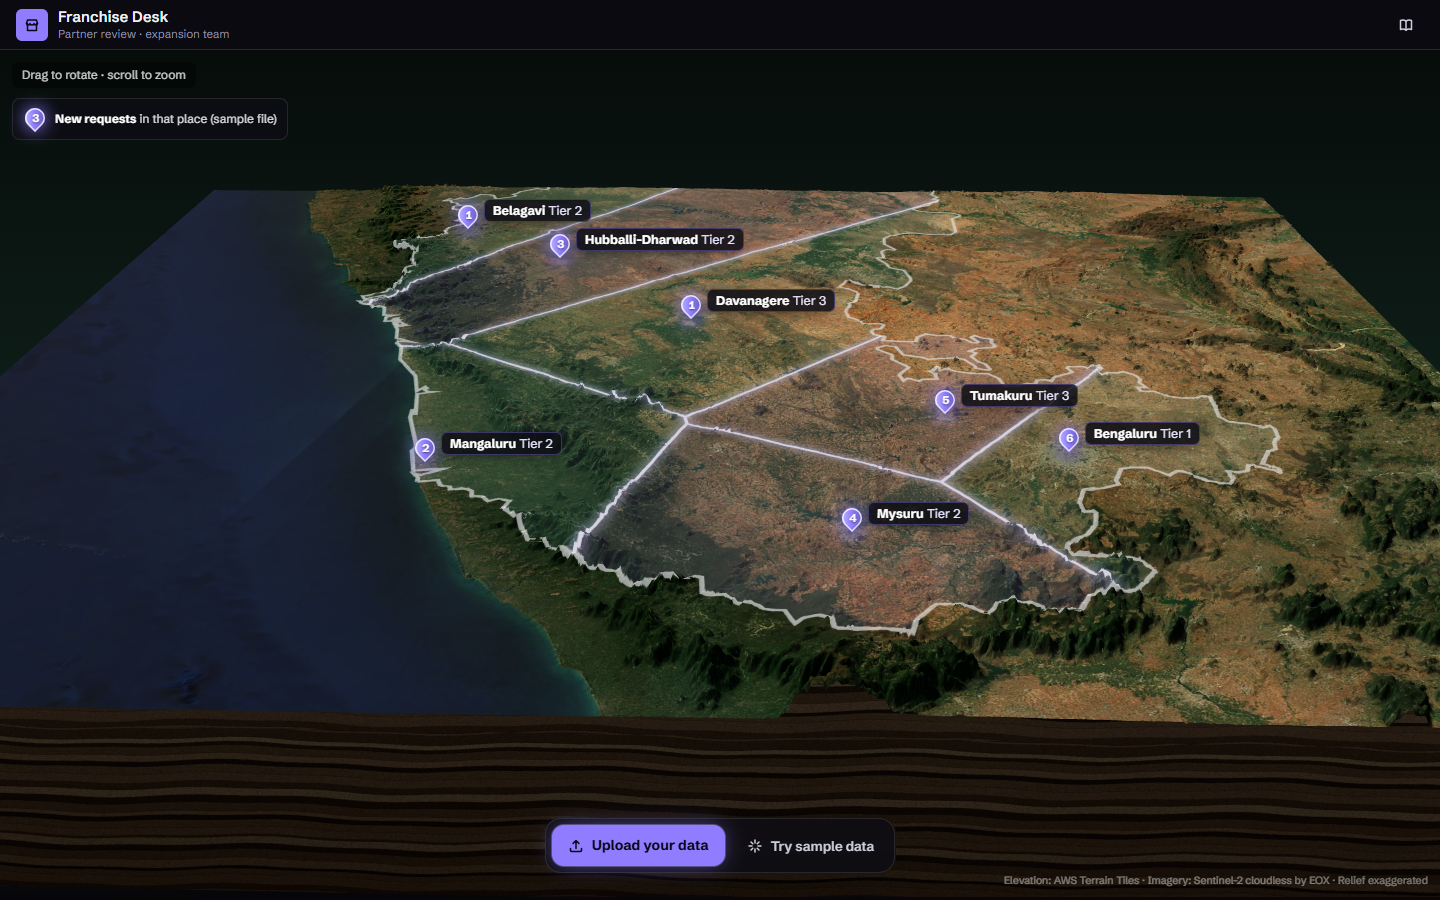
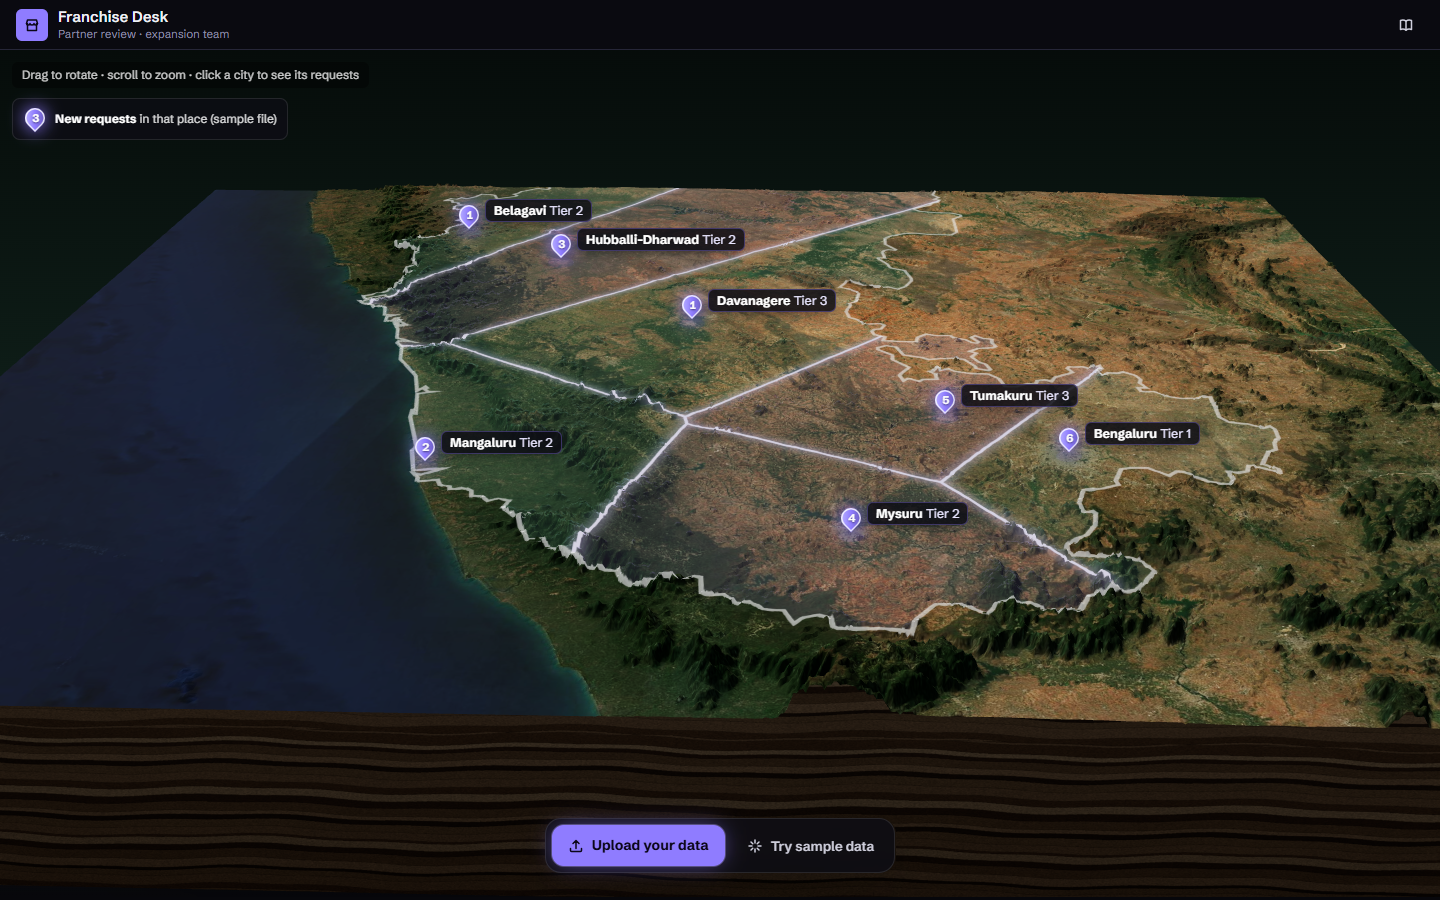
Clicking a city on the first page flies into its territory with the requests; map credits move to How it decides

diff --git a/components/EmptyState.tsx b/components/EmptyState.tsx
@@ -16,7 +16,7 @@ const Diorama = dynamic(() => import("./map/Diorama"), {
   loading: () => <div className="grid h-full place-items-center text-[13px] text-muted">Building the 3D view of India…</div>,
 });
 
-export function EmptyState({ onFile, onSample, error, loading }: { onFile: (f: File) => void; onSample: () => void; error: string | null; loading: boolean }) {
+export function EmptyState({ onFile, onSample, error, loading }: { onFile: (f: File) => void; onSample: (openCity?: string) => void; error: string | null; loading: boolean }) {
   const [over, setOver] = useState(false);
   // before any upload, the pins count the requests in the bundled sample file (invented applicants), marked as sample
   const [counts, setCounts] = useState<Record<string, number> | null>(null);
@@ -66,9 +66,9 @@ export function EmptyState({ onFile, onSample, error, loading }: { onFile: (f: F
         if (f) onFile(f);
       }}
     >
-      {map3d && <Diorama source={{ kind: "region" }} points={points} overlay={zones} activeKey={picked} onPick={(k) => setPicked((p) => (p === k ? null : k))} reducedMotion={reduced} onFail={() => setMap3d(false)} autoRotate hint="Drag to rotate · scroll to zoom" />}
+      {map3d && <Diorama source={{ kind: "region" }} points={points} overlay={zones} activeKey={picked} onPick={(k) => onSample(points.find((p) => p.key === k)?.title)} reducedMotion={reduced} onFail={() => setMap3d(false)} autoRotate hint="Drag to rotate · scroll to zoom · click a city to see its requests" />}
       <PinLegend points={points} sample />
-      {!map3d && <FlatIndia points={points} activeKey={picked} onPick={(k) => setPicked((p) => (p === k ? null : k))} />}
+      {!map3d && <FlatIndia points={points} activeKey={picked} onPick={(k) => onSample(points.find((p) => p.key === k)?.title)} />}
       {over && <div className="pointer-events-none absolute inset-3 z-[4] grid place-items-center rounded-2xl border-2 border-dashed border-[#b4a6ff] bg-[#8f7cff14] text-[16px] font-semibold text-white">Drop the Excel file to open it</div>}
       <div className="absolute inset-x-0 bottom-6 z-[5] flex flex-col items-center gap-2 px-4">
         {error && (
@@ -80,7 +80,7 @@ export function EmptyState({ onFile, onSample, error, loading }: { onFile: (f: F
           <label htmlFor="file" className="neon-btn inline-flex cursor-pointer items-center gap-2 rounded-xl px-4 py-2.5 text-[14px] font-bold">
             <Icon.Upload /> {loading ? "Reading the workbook…" : "Upload your data"}
           </label>
-          <button type="button" onClick={onSample} disabled={loading} className="inline-flex items-center gap-2 rounded-xl px-3.5 py-2.5 text-[13.5px] font-semibold text-ink-2 hover:bg-white/5 hover:text-ink disabled:opacity-60">
+          <button type="button" onClick={() => onSample()} disabled={loading} className="inline-flex items-center gap-2 rounded-xl px-3.5 py-2.5 text-[13.5px] font-semibold text-ink-2 hover:bg-white/5 hover:text-ink disabled:opacity-60">
             <Icon.Spark /> Try sample data
           </button>
           <input

diff --git a/components/Explore.tsx b/components/Explore.tsx
@@ -41,7 +41,7 @@ function territoryBbox(points: MapPoint[]): [number, number, number, number] {
   return [w, s, e, n];
 }
 
-export function Explore({ result, onFullDecision, onSummary }: { result: RunResult; onFullDecision: (key: string) => void; onSummary: () => void }) {
+export function Explore({ result, onFullDecision, onSummary, openCity, onOpened }: { result: RunResult; onFullDecision: (key: string) => void; onSummary: () => void; openCity?: string | null; onOpened?: () => void }) {
   const [territory, setTerritory] = useState<string | null>(null);
   const [request, setRequest] = useState<string | null>(null);
   const [reduced, setReduced] = useState(false);
@@ -63,6 +63,17 @@ export function Explore({ result, onFullDecision, onSummary }: { result: RunResu
   }, [request, territory]);
 
   const tPoints = useMemo(() => territoryPoints(result), [result]);
+  // a city clicked on the first page opens straight into its territory
+  useEffect(() => {
+    if (!openCity) return;
+    const p = tPoints.find((x) => x.place === openCity || x.title === openCity);
+    if (p) {
+      setTerritory(p.key);
+      setRequest(null);
+    }
+    onOpened?.();
+    // eslint-disable-next-line react-hooks/exhaustive-deps
+  }, [openCity]);
   const zones = useMemo(() => territoryZones(tPoints, ka), [tPoints, ka]);
   const list = useMemo(() => (territory ? territoryRequests(result, territory) : []), [result, territory]);
   const t = territory ? result.territories.find((x) => x.key === territory) : null;

diff --git a/components/Desk.tsx b/components/Desk.tsx
@@ -124,7 +124,8 @@ export default function Desk() {
   );
 
   const [openRequest, setOpenRequest] = useState<string | null>(null);
-  const onSample = useCallback(async (open?: string) => {
+  const [openCity, setOpenCity] = useState<string | null>(null);
+  const onSample = useCallback(async (open?: string, city?: string) => {
     setLoading(true);
     setError(null);
     try {
@@ -132,6 +133,7 @@ export default function Desk() {
       if (!r.ok) throw new Error("sample missing");
       loadBuffer(await r.arrayBuffer(), "SAMPLE DATA (invented test fixture)", "sample");
       setOpenRequest(open ?? null);
+      setOpenCity(city ?? null);
     } catch {
       setError("The sample file could not be loaded. You can still upload your own file.");
     } finally {
@@ -315,10 +317,12 @@ export default function Desk() {
       </header>
 
       {!result || !dataset || !steps ? (
-        <EmptyState onFile={onFile} onSample={() => onSample()} error={error} loading={loading} />
+        <EmptyState onFile={onFile} onSample={(city) => onSample(undefined, city)} error={error} loading={loading} />
       ) : tab === "explore" ? (
         <Explore
           result={result}
+          openCity={openCity}
+          onOpened={() => setOpenCity(null)}
           onSummary={() => setTab("summary")}
           onFullDecision={(k) => {
             setTab("summary");

diff --git a/components/Panels.tsx b/components/Panels.tsx
@@ -126,6 +126,7 @@ export function MethodPanel({ policy }: { policy: Policy }) {
     ["8. Plan the opening", `KYC and agreement ${policy.timeline.kycAgreementWeeks} weeks, site (owned 0, rented 1, none 6 weeks), fit-out ${policy.timeline.fitoutWeeks} weeks (+3 mall, +1 upper) in parallel with training (Foundation 3, Standard 2 or Accelerated 1 week, in the applicant's language, with a buddy store), then first stock ${policy.timeline.stockPosWeeks} weeks; Tier 3 adds ${policy.timeline.tier3LogisticsWeeks} weeks for logistics.`],
     ["What the AI does", "Only reads follow-up questions in plain language (and Hindi or Kannada) and turns them into commands the rules can run. It never decides or scores, and every answer is built from the engine's output. Without the AI, a rule-based reader handles the same questions in English."],
     ["Distances", `${centroidSource || "Pin centroids"}. No catchment boundaries were provided, so overlap is judged from distances between pin centres.`],
+    ["Map credits", "3D terrain: elevation from AWS Terrain Tiles (Mapzen); imagery from Sentinel-2 cloudless by EOX (CC BY-NC-SA 4.0, contains modified Copernicus Sentinel data 2020); relief is exaggerated. Street map: OpenStreetMap contributors and Esri. Satellite views in request tabs: Google Maps."],
   ];
   return (
     <div className="space-y-4">

diff --git a/components/map/Diorama.tsx b/components/map/Diorama.tsx
@@ -749,7 +749,6 @@ export default function Diorama({ points, activeKey, onPick, reducedMotion, onFa
       <div ref={host} className="absolute inset-0" />
       <svg ref={lineLayer} className="pointer-events-none absolute inset-0 h-full w-full" aria-hidden />
       <div ref={tagLayer} className="pointer-events-none absolute inset-0" style={{ left: 0, top: 0 }} />
-      <p className="pointer-events-none absolute bottom-2 right-3 text-[10.5px] text-white/45">Elevation: AWS Terrain Tiles · Imagery: Sentinel-2 cloudless by EOX · Relief exaggerated</p>
       {hint !== "" && <p className="pointer-events-none absolute left-3 top-3 rounded-md bg-black/40 px-2.5 py-1 text-[12px] text-white/80">{hint ?? "Drag to rotate · scroll to zoom · click a territory to see its requests"}</p>}
     </div>
   );
